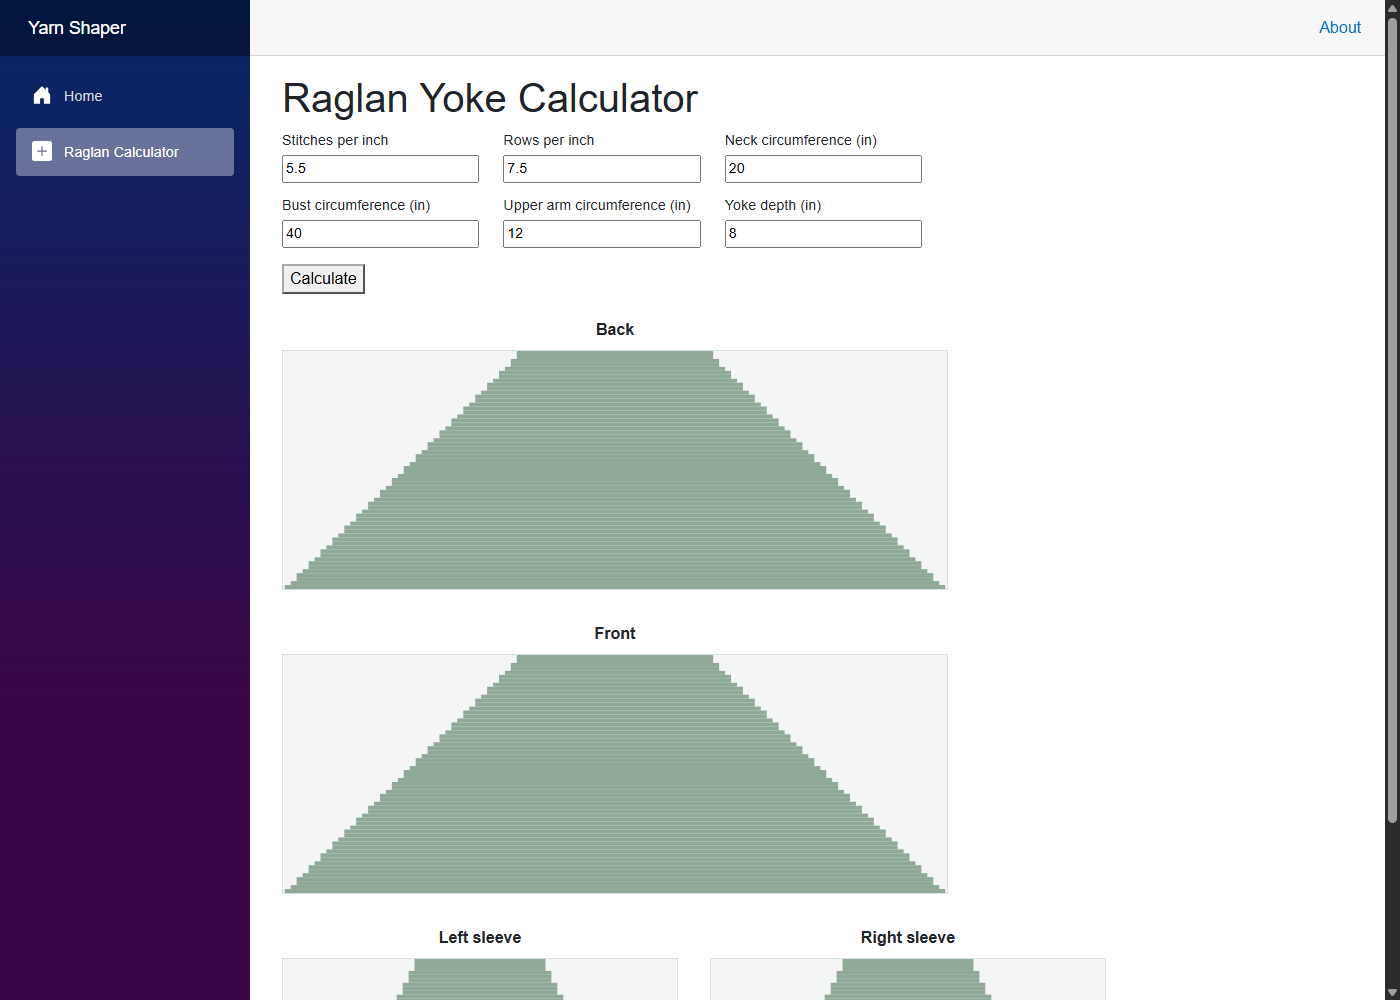
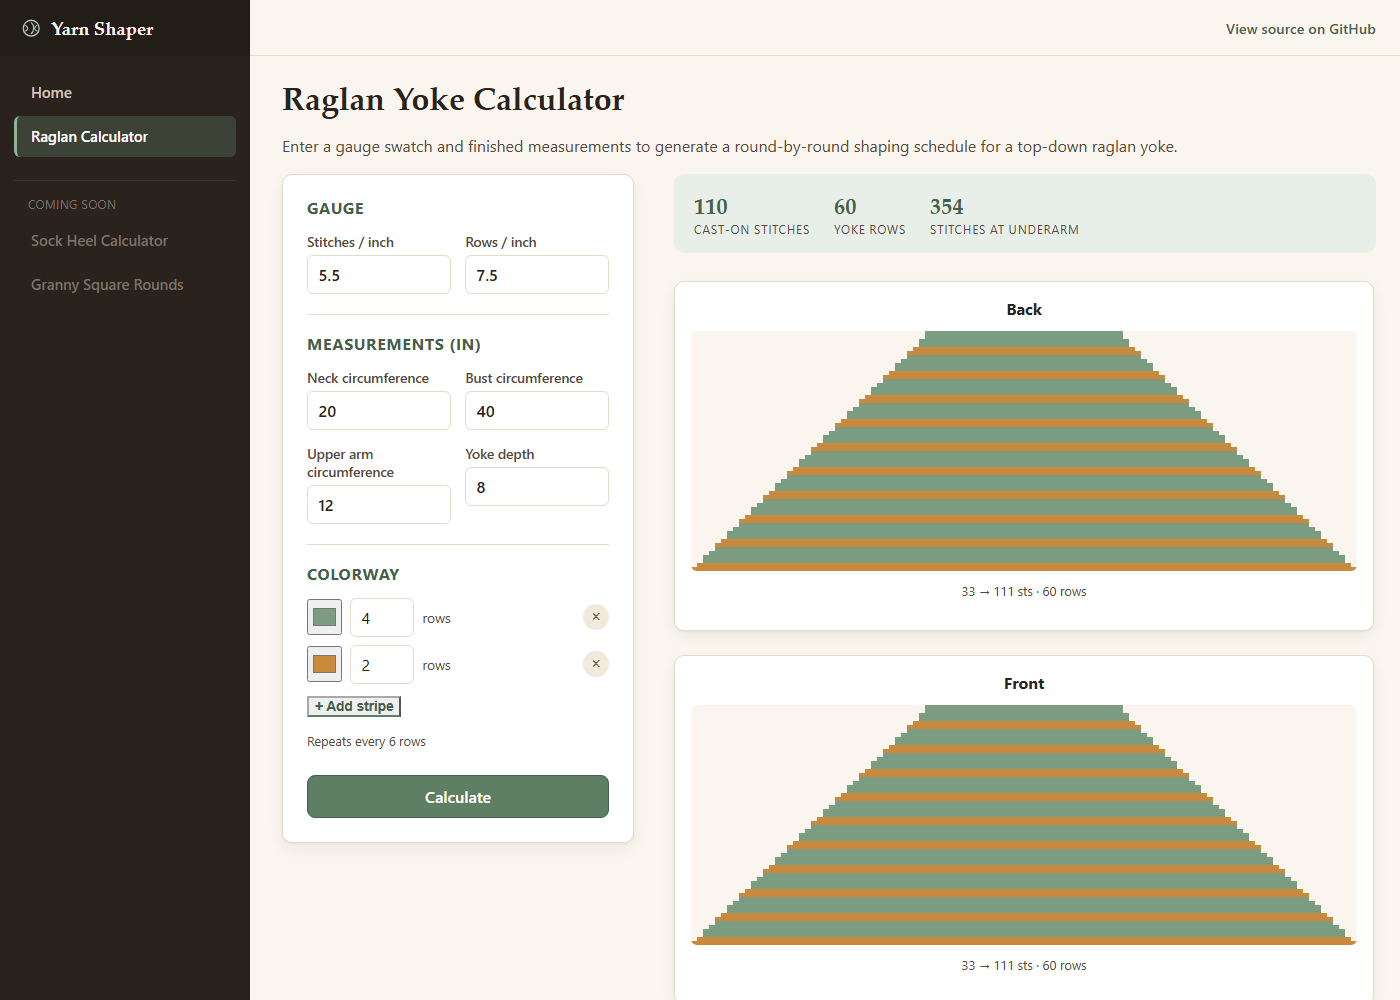
Update README and landing page for the colorway feature
Move colorway preview from "coming soon" to "available now" on the
home page, document the ColorwayMapper row-number-not-per-section
design decision in the README, update the test count, and swap in a
fresh screenshot showing the striped schematic.

diff --git a/README.md b/README.md
@@ -19,6 +19,11 @@ for a top-down raglan yoke — back, front, and both sleeves — then draws
 each section as a schematic: cast-on at the neck, widening step by step
 toward the underarm, exactly matching the computed stitch counts.
 
+A colorway picker sits alongside it: build a stripe sequence (color + row
+count per stripe), and it's mapped onto the real row data — all four
+sections recolor in sync, since a raglan yoke is worked in the round and
+row N is the same physical round in every section.
+
 ## Notable engineering decisions
 
 - **The shaping math is the actual point, so it's isolated and tested on
@@ -42,12 +47,20 @@ toward the underarm, exactly matching the computed stitch counts.
   any correct schedule: monotonic stitch growth, exactly +2 stitches per
   increase round, convergence on the target circumference within rounding
   tolerance, and a hard failure when the yoke is too shallow for the
-  required shaping. 24 tests, all in `YarnShaper.Core.Tests`.
+  required shaping. 35 tests, all in `YarnShaper.Core.Tests`.
 - **SVG straight from Razor, no Canvas/JS interop.** `SchematicRenderer.razor`
   takes a section's row list and draws it directly as stacked, proportionally
   widening `<rect>` bands — the "hard-to-fake" part of a schematic (increases
   visibly widening the shape) falls out of the data instead of being drawn
   by hand.
+- **The colorway layer is keyed by absolute row number, not per-section
+  index.** It would be simpler to map each section's own row list
+  independently, but that's physically wrong for a raglan — back, front,
+  and both sleeves are worked in the same round simultaneously.
+  [`ColorwayMapper`](src/YarnShaper.Core/Colorways/ColorwayMapper.cs) maps
+  the stripe pattern once against the shared row count and hands the same
+  `RowNumber → color` map to every section, so a stripe boundary lines up
+  identically across all four schematics.
 - **CI gates the deploy on the test suite.** The GitHub Actions workflow
   runs `dotnet test` before it ever builds or publishes — a broken shaping
   calculation can't reach the live site.
@@ -82,9 +95,6 @@ Things planned but not yet built:
 
 - Sock heel turn + gusset calculator, reusing the same renderer
 - Granny square / round-based calculator (round-by-round color is the
-  classic use case for the colorway layer below)
-- Colorway layer: a stripe-sequence model mapped onto the actual row data,
-  so a color preview reflects the real construction instead of a generic
-  mockup
+  classic use case for the colorway layer)
 - Yardage estimator per colorway
 - Export the schematic as a downloadable SVG/PNG
